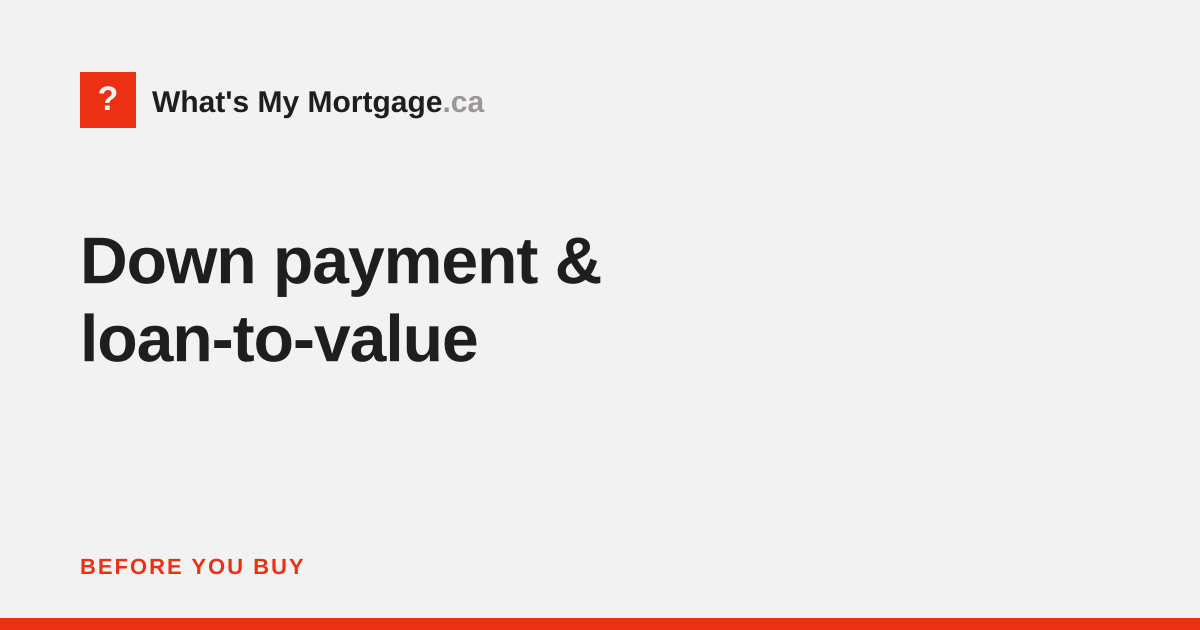
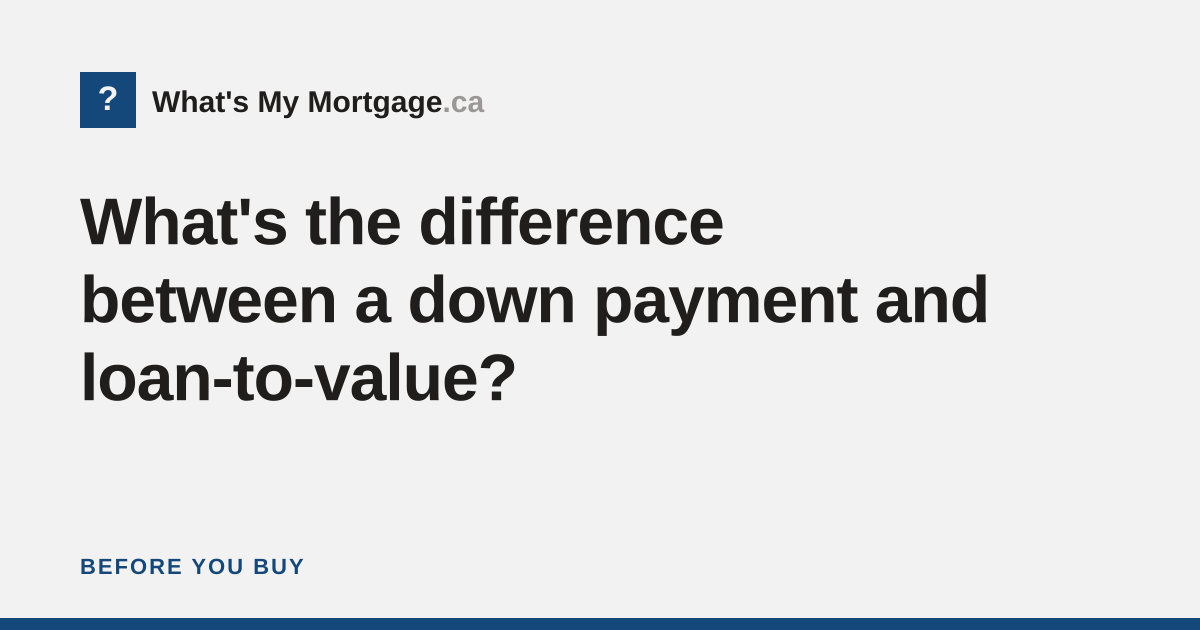
Replace the single-hue palette with a two-color trust/action system
Blue for trust, amber for action — replacing the red-orange accent used
everywhere (brand and CTA both) since the original design. Grounded in
research from this specific category rather than picked to match any
logo: financial-services color psychology consistently favors blue for
trust (the range cited runs #0A2540-#2563EB; a cited A/B test found a
23% conversion lift switching a finance CTA to deep navy over a warmer
color), Canadian bank precedent leans the same way (RBC and BMO both
anchor on blue), and the industry-specific literature is explicit that
orange/red reads as urgency rather than authority — the wrong signal for
a site whose whole pitch is "real lender math, sources published, not a
broker." Red was also a poor fit for this site specifically: it's the
color under the biggest number on a penalty or cost calculator, which
shouldn't look like an alarm.

The split is a strict two-color system, not a reskin:
  --color-primary (blue)  — trust. Logo, hero, category icons, active nav
    state, step numbers, the answer on a result card. Every place the
    site establishes who it is.
  --color-accent (amber)  — action. Only .btn-primary and its literal
    equivalents (the assistant's send button) — the one thing per page
    that actually submits or converts. Never used for brand/identity.
Selection states (segmented toggles, nav active state) went to primary,
not accent — they're "this is chosen," not "click this to convert."
[…]

diff --git a/src/assets/css/main.css b/src/assets/css/main.css
@@ -14,9 +14,9 @@
   --color-bg: #f3f2f2;
   --color-surface: #eae9e9;
   --color-text: #201e1d;
-  --color-accent: #ec3013;
-  --color-accent-2: #e15b47;
+  --color-accent: #a6600f;
   --color-divider: color-mix(in srgb, #201e1d 40%, transparent);
+  --color-danger: #b3261e;
 
   --color-neutral-100: #f8f4f4;
   --color-neutral-200: #eae7e7;
@@ -28,15 +28,30 @@
   --color-neutral-800: #444141;
   --color-neutral-900: #2d2b2b;
 
-  --color-accent-100: #fff2ef;
-  --color-accent-200: #ffe0d9;
-  --color-accent-300: #ffc4b8;
-  --color-accent-400: #ff9783;
-  --color-accent-500: #ff563c;
-  --color-accent-600: #dd2b0f;
-  --color-accent-700: #ae1800;
-  --color-accent-800: #7c1405;
-  --color-accent-900: #4d170e;
+  /* Trust/brand color — logo, icons, active states, the answer on a
+     result card. Everywhere the site establishes who it is. */
+  --color-primary: #14487a;
+  --color-primary-100: #f0f6fc;
+  --color-primary-200: #d8e8f9;
+  --color-primary-300: #b5d4f3;
+  --color-primary-400: #7cb4e9;
+  --color-primary-500: #3a8edf;
+  --color-primary-600: #14487a;
+  --color-primary-700: #0c3154;
+  --color-primary-800: #071f35;
+  --color-primary-900: #040f1a;
+
+  /* Action color — reserved for the one thing on a page that submits or
+     converts (the primary button), never for brand/trust moments. */
+  --color-accent-100: #fef7ef;
+  --color-accent-200: #fbe9d5;
+  --color-accent-300: #f8d6af;
+  --color-accent-400: #f2b773;
+  --color-accent-500: #ec932d;
+  --color-accent-600: #a6600f;
+  --color-accent-700: #7f4808;
+  --color-accent-800: #5d3506;
+  --color-accent-900: #412504;
 
   --font-heading: "Archivo", system-ui, sans-serif;
   --font-heading-weight: 800;
@@ -97,19 +112,24 @@ h4 { font-size: var(--text-21); font-weight: var(--weight-21); letter-spacing: v
 h5 { font-size: var(--text-17); font-weight: var(--weight-17); letter-spacing: var(--track-17); }
 h6 { font-size: var(--text-13); font-weight: var(--weight-13); letter-spacing: var(--track-13); text-transform: uppercase; }
 p { margin: 0 0 var(--space-3); max-width: 68ch; }
-/* Brand color is deliberate, not incidental: it lives at fixed structural
-   points — the logo, the hero, category icons, the answer on a result
-   card, primary buttons, active nav state — so the site reads as one
-   consistent brand at a glance. It does not spread to ordinary body links
-   or prose, which stay ink + underline; that's what keeps "branded" from
-   sliding into "everything is red." */
+/* Two brand colors, two jobs, never mixed:
+     --color-primary (blue)  — trust. The logo, the hero, category icons,
+       active nav state, the answer on a result card. Everywhere the site
+       establishes who it is.
+     --color-accent (amber)  — action. Only the one thing on a page that
+       submits or converts (.btn-primary and its equivalents). It never
+       appears as a brand/identity color, and primary never appears on a
+       button someone is meant to click to convert.
+   Neither spreads to ordinary body links or prose, which stay ink +
+   underline — that's what keeps "branded" from sliding into "everything
+   is colored." */
 a { color: var(--color-text); text-decoration-color: color-mix(in srgb, var(--color-text) 40%, transparent); text-underline-offset: 3px; }
 a:hover { text-decoration-color: currentColor; }
 img { display: block; max-width: 100%; }
 button { font: inherit; }
 :focus { outline: none; }
-:focus-visible { outline: 2px solid var(--color-accent); outline-offset: 2px; }
-::selection { background: color-mix(in srgb, var(--color-accent) 30%, transparent); }
+:focus-visible { outline: 2px solid var(--color-primary); outline-offset: 2px; }
+::selection { background: color-mix(in srgb, var(--color-primary) 30%, transparent); }
 /* Custom slider thumb: bigger than any browser default (28px, well past
    the 44px touch target once you count the invisible hit area browsers
    already pad range inputs with) and ink-colored rather than accent — a
@@ -135,8 +155,8 @@ input[type="range"]::-moz-range-thumb {
   width: 28px; height: 28px; border-radius: 50%; border: 3px solid var(--color-bg);
   background: var(--color-neutral-900); box-shadow: var(--shadow-sm); cursor: pointer;
 }
-input[type="range"]:focus-visible::-webkit-slider-thumb { outline: 2px solid var(--color-accent); outline-offset: 2px; }
-input[type="range"]:focus-visible::-moz-range-thumb { outline: 2px solid var(--color-accent); outline-offset: 2px; }
+input[type="range"]:focus-visible::-webkit-slider-thumb { outline: 2px solid var(--color-primary); outline-offset: 2px; }
+input[type="range"]:focus-visible::-moz-range-thumb { outline: 2px solid var(--color-primary); outline-offset: 2px; }
 
 .hr { height: 2px; border: 0; margin: var(--space-4) 0; background: var(--color-divider); }
 
@@ -165,15 +185,15 @@ input[type="range"]:focus-visible::-moz-range-thumb { outline: 2px solid var(--c
 .field > label { display: block; font-size: var(--text-13); margin-bottom: 5px; color: color-mix(in srgb, var(--color-text) 70%, transparent); }
 .input {
   width: 100%; min-height: 44px; padding: 6px 12px; font: inherit;
-  font-size: var(--text-15); color: var(--color-text); caret-color: var(--color-accent);
+  font-size: var(--text-15); color: var(--color-text); caret-color: var(--color-primary);
   background: var(--color-surface); border: 1px solid var(--color-divider); border-radius: var(--radius-md);
 }
 .input:hover { border-color: color-mix(in srgb, var(--color-text) 45%, transparent); }
-.input:focus-visible { border-color: var(--color-accent); outline-offset: 0; }
+.input:focus-visible { border-color: var(--color-primary); outline-offset: 0; }
 select.input { appearance: auto; cursor: pointer; }
 .skip-link {
   position: absolute; left: -9999px; top: 0; z-index: 1000;
-  background: var(--color-accent-600); color: #fff;
+  background: var(--color-primary-600); color: #fff;
   padding: 10px 16px; font-family: var(--font-heading); font-weight: 800; font-size: var(--text-13);
   text-decoration: none;
 }
@@ -182,9 +202,9 @@ select.input { appearance: auto; cursor: pointer; }
 .seg-opt { display: inline-flex; align-items: center; gap: 6px; padding: 12px 14px; font-size: var(--text-13); cursor: pointer; min-height: 44px; }
 .seg-opt + .seg-opt { border-left: 1px solid var(--color-divider); }
 .seg-opt input { position: absolute; opacity: 0; width: 0; height: 0; pointer-events: none; }
-.seg-opt:has(input:checked) { background: var(--color-accent-600); color: #fff; }
+.seg-opt:has(input:checked) { background: var(--color-primary-600); color: #fff; }
 .seg-opt:not(:has(input:checked)):hover { background: color-mix(in srgb, var(--color-text) 7%, transparent); }
-.seg-opt:has(input:focus-visible) { outline: 2px solid var(--color-accent); outline-offset: -2px; }
+.seg-opt:has(input:focus-visible) { outline: 2px solid var(--color-primary); outline-offset: -2px; }
 
 /* — cards — */
 .card { display: flex; flex-direction: column; gap: var(--space-2); padding: var(--space-3); border-radius: var(--radius-md); background: var(--color-surface); }
@@ -198,8 +218,8 @@ select.input { appearance: auto; cursor: pointer; }
 .nav-brand { font-family: var(--font-heading); font-weight: var(--font-heading-weight); font-size: var(--text-17); margin-right: auto; display: flex; align-items: center; gap: 8px; cursor: pointer; background: none; border: none; padding: 0; color: inherit; white-space: nowrap; text-decoration: none; }
 .nav-links { display: flex; flex-wrap: wrap; gap: var(--space-1) var(--space-4); align-items: center; }
 .nav a, .nav button.link { color: inherit; text-decoration: none; font-size: var(--text-15); font-weight: 600; background: none; border: none; cursor: pointer; font-family: var(--font-body); padding: 10px 2px; min-height: 44px; display: inline-flex; align-items: center; white-space: nowrap; border-bottom: 2px solid transparent; }
-.nav a:hover, .nav button.link:hover { color: var(--color-accent-700); }
-.nav a[aria-current='page'] { border-bottom-color: var(--color-accent); color: var(--color-accent-700); }
+.nav a:hover, .nav button.link:hover { color: var(--color-primary-700); }
+.nav a[aria-current='page'] { border-bottom-color: var(--color-primary); color: var(--color-primary-700); }
 
 .nav-dropdown { position: relative; }
 .nav-dropdown summary {
@@ -208,9 +228,9 @@ select.input { appearance: auto; cursor: pointer; }
   cursor: pointer; border-bottom: 2px solid transparent;
 }
 .nav-dropdown summary::-webkit-details-marker { display: none; }
-.nav-dropdown summary:hover { color: var(--color-accent-700); }
+.nav-dropdown summary:hover { color: var(--color-primary-700); }
 .nav-dropdown summary svg { transition: transform .15s; }
-.nav-dropdown[open] summary { color: var(--color-accent-700); border-bottom-color: var(--color-accent); }
+.nav-dropdown[open] summary { color: var(--color-primary-700); border-bottom-color: var(--color-primary); }
 .nav-dropdown[open] summary svg { transform: rotate(180deg); }
 .nav-dropdown-panel {
   position: absolute; top: calc(100% + 10px); left: 0; z-index: 30;
@@ -223,8 +243,8 @@ select.input { appearance: auto; cursor: pointer; }
   border-radius: var(--radius-sm); min-height: 44px; font-size: var(--text-15); font-weight: 600;
   color: inherit; text-decoration: none; white-space: normal;
 }
-.nav-dropdown-item:hover { background: var(--color-accent-100); color: var(--color-accent-800); }
-.nav-dropdown-icon { display: flex; flex: none; width: 32px; height: 32px; align-items: center; justify-content: center; border-radius: 50%; background: var(--color-accent-100); color: var(--color-accent-700); }
+.nav-dropdown-item:hover { background: var(--color-primary-100); color: var(--color-primary-800); }
+.nav-dropdown-icon { display: flex; flex: none; width: 32px; height: 32px; align-items: center; justify-content: center; border-radius: 50%; background: var(--color-primary-100); color: var(--color-primary-700); }
 @media (max-width: 480px) {
   .nav-dropdown-panel { left: -12px; right: -12px; min-width: 0; }
 }
@@ -242,7 +262,7 @@ select.input { appearance: auto; cursor: pointer; }
 .info-dot { display: inline-flex; width: 17px; height: 17px; border: 1px solid var(--color-divider); border-radius: 50%; align-items: center; justify-content: center; font-size: 10px; font-style: italic; color: var(--color-neutral-700); vertical-align: middle; }
 
 /* — nav brand mark — */
-.brand-mark { width: 30px; height: 30px; background: var(--color-accent-600); color: #fff; display: flex; align-items: center; justify-content: center; border-radius: var(--radius-sm); flex: none; }
+.brand-mark { width: 30px; height: 30px; background: var(--color-primary-600); color: #fff; display: flex; align-items: center; justify-content: center; border-radius: var(--radius-sm); flex: none; }
 
 /* — clickable card — */
 .click-card { cursor: pointer; transition: transform .15s, box-shadow .15s; text-align: left; border: none; font: inherit; color: inherit; width: 100%; }
@@ -251,15 +271,15 @@ select.input { appearance: auto; cursor: pointer; }
 /* — home hero — */
 .hero-band {
   background:
-    radial-gradient(ellipse 900px 500px at 85% -10%, var(--color-accent-200) 0%, transparent 60%),
-    linear-gradient(180deg, var(--color-accent-100) 0%, var(--color-bg) 100%);
+    radial-gradient(ellipse 900px 500px at 85% -10%, var(--color-primary-200) 0%, transparent 60%),
+    linear-gradient(180deg, var(--color-primary-100) 0%, var(--color-bg) 100%);
   border-bottom: 1px solid var(--color-divider);
 }
 .hero { padding: var(--space-12) 0 var(--space-8); text-align: left; }
 .hero-kicker {
   display: inline-flex; align-items: center; gap: 7px;
   font-family: var(--font-heading); font-weight: 800; font-size: var(--text-13);
-  letter-spacing: .06em; text-transform: uppercase; color: var(--color-accent-700);
+  letter-spacing: .06em; text-transform: uppercase; color: var(--color-primary-700);
   margin-bottom: var(--space-4);
 }
 .hero h1 { font-size: clamp(32px, 5.6vw, var(--text-56)); letter-spacing: var(--track-56); margin: 0 0 var(--space-3); }
@@ -267,9 +287,9 @@ select.input { appearance: auto; cursor: pointer; }
 .hero-badges { display: flex; flex-wrap: wrap; gap: var(--space-2) var(--space-4); margin-top: var(--space-6); }
 .hero-badge {
   display: inline-flex; align-items: center; gap: 6px;
-  font-size: var(--text-13); font-weight: 700; color: var(--color-accent-800);
+  font-size: var(--text-13); font-weight: 700; color: var(--color-primary-800);
   background: color-mix(in srgb, var(--color-bg) 55%, transparent);
-  border: 1px solid var(--color-accent-300); border-radius: 999px;
+  border: 1px solid var(--color-primary-300); border-radius: 999px;
   padding: 6px 12px;
 }
 .hero-badge svg { flex: none; }
@@ -278,13 +298,13 @@ select.input { appearance: auto; cursor: pointer; }
   display: inline-flex; align-items: center; gap: 6px; margin-top: var(--space-6);
   background: none; border: none; cursor: pointer; padding: 4px 0;
   font-family: var(--font-heading); font-weight: 800; font-size: var(--text-13);
-  color: var(--color-accent-700); text-decoration: underline; text-underline-offset: 3px;
+  color: var(--color-primary-700); text-decoration: underline; text-underline-offset: 3px;
 }
 .qz-trigger svg { transition: transform .15s; }
 .qz-trigger[aria-expanded="true"] svg { transform: rotate(180deg); }
 .qz-panel {
   margin-top: var(--space-4); padding: var(--space-6); max-width: 480px;
-  background: var(--color-bg); border: 1px solid var(--color-accent-300);
+  background: var(--color-bg); border: 1px solid var(--color-primary-300);
   border-radius: var(--radius-lg); box-shadow: var(--shadow-md);
 }
 .qz-question { font-family: var(--font-heading); font-weight: 800; font-size: var(--text-17); margin: 0 0 var(--space-3); }
@@ -300,22 +320,22 @@ select.input { appearance: auto; cursor: pointer; }
   background: var(--color-bg); box-shadow: var(--shadow-sm);
   transition: box-shadow .15s, transform .15s, border-color .15s;
 }
-.journey-card:has(.journey-link:hover) { box-shadow: var(--shadow-md); border-color: var(--color-accent-300); transform: translateY(-2px); }
+.journey-card:has(.journey-link:hover) { box-shadow: var(--shadow-md); border-color: var(--color-primary-300); transform: translateY(-2px); }
 .journey-link { display: block; text-decoration: none; color: inherit; flex: 1; }
-.journey-link:hover .journey-title { text-decoration: underline; text-decoration-color: var(--color-accent); }
+.journey-link:hover .journey-title { text-decoration: underline; text-decoration-color: var(--color-primary); }
 .journey-icon {
   display: flex; align-items: center; justify-content: center; width: 44px; height: 44px;
-  border-radius: 50%; background: var(--color-accent-100); color: var(--color-accent-700);
+  border-radius: 50%; background: var(--color-primary-100); color: var(--color-primary-700);
   margin-bottom: var(--space-4);
 }
 .journey-title { font-family: var(--font-heading); font-weight: var(--weight-21); font-size: var(--text-21); letter-spacing: var(--track-21); margin-bottom: 6px; }
 .journey-desc { font-size: var(--text-15); opacity: .7; margin: 0; }
-.journey-read { display: inline-flex; align-items: center; min-height: 44px; margin-top: var(--space-3); font-size: var(--text-13); font-weight: 700; color: var(--color-accent-700); }
+.journey-read { display: inline-flex; align-items: center; min-height: 44px; margin-top: var(--space-3); font-size: var(--text-13); font-weight: 700; color: var(--color-primary-700); }
 
 /* — how it works — */
 .how-it-works { display: flex; flex-wrap: wrap; gap: var(--space-6); }
 .how-step { flex: 1 1 220px; display: flex; gap: var(--space-3); align-items: flex-start; }
-.how-n { flex: none; width: 28px; height: 28px; border-radius: 50%; background: var(--color-accent-600); color: #fff; display: flex; align-items: center; justify-content: center; font-family: var(--font-heading); font-weight: 800; font-size: var(--text-13); }
+.how-n { flex: none; width: 28px; height: 28px; border-radius: 50%; background: var(--color-primary-600); color: #fff; display: flex; align-items: center; justify-content: center; font-family: var(--font-heading); font-weight: 800; font-size: var(--text-13); }
 .how-text { font-size: var(--text-15); line-height: 1.5; padding-top: 3px; }
 
 /* — result card — */
@@ -346,7 +366,7 @@ select.input { appearance: auto; cursor: pointer; }
    answer-right (both above the fold) via the row layout + order swap. */
 .calc-page { padding-top: var(--space-6); padding-bottom: var(--space-12); }
 .calc-h1 { display: flex; align-items: center; gap: var(--space-3); font-size: var(--text-28); letter-spacing: var(--track-28); margin: var(--space-3) 0 var(--space-6); }
-.calc-h1-icon { display: flex; flex: none; align-items: center; justify-content: center; width: 44px; height: 44px; border-radius: 50%; background: var(--color-accent-100); color: var(--color-accent-700); }
+.calc-h1-icon { display: flex; flex: none; align-items: center; justify-content: center; width: 44px; height: 44px; border-radius: 50%; background: var(--color-primary-100); color: var(--color-primary-700); }
 .calc-layout { display: flex; flex-direction: column; gap: var(--space-6); }
 .calc-answer-zone { order: 1; }
 .calc-input-zone { order: 2; padding: var(--space-6); }
@@ -382,7 +402,7 @@ select.input { appearance: auto; cursor: pointer; }
 
 /* — jargon page — */
 .jargon-item { padding: var(--space-3) 0; border-bottom: 1px solid var(--color-divider); scroll-margin-top: 16px; }
-.jargon-item:target { background: var(--color-accent-100); outline: 2px solid var(--color-accent); outline-offset: 2px; padding-left: var(--space-2); }
+.jargon-item:target { background: var(--color-primary-100); outline: 2px solid var(--color-primary); outline-offset: 2px; padding-left: var(--space-2); }
 .jargon-term { font-family: var(--font-heading); font-weight: 800; font-size: var(--text-17); margin-bottom: 3px; }
 .jargon-def { font-size: var(--text-15); line-height: 1.5; opacity: .75; margin: 0; }
 
@@ -413,11 +433,11 @@ select.input { appearance: auto; cursor: pointer; }
 .assistant-widget { position: fixed; right: var(--space-4); bottom: var(--space-4); z-index: 100; }
 .assistant-fab {
   width: 56px; height: 56px; border-radius: 50%; border: none; cursor: pointer;
-  background: var(--color-accent-600); color: #fff; box-shadow: var(--shadow-lg);
+  background: var(--color-primary-600); color: #fff; box-shadow: var(--shadow-lg);
   display: flex; align-items: center; justify-content: center;
   transition: background .15s, transform .15s;
 }
-.assistant-fab:hover { background: var(--color-accent-700); transform: scale(1.05); }
+.assistant-fab:hover { background: var(--color-primary-700); transform: scale(1.05); }
 .assistant-fab[aria-expanded="true"] { background: var(--color-neutral-900); }
 
 .assistant-panel {
@@ -431,7 +451,7 @@ select.input { appearance: auto; cursor: pointer; }
 .assistant-header {
   display: flex; align-items: center; justify-content: space-between; gap: var(--space-2);
   padding: var(--space-3) var(--space-4); border-bottom: 1px solid var(--color-divider);
-  background: var(--color-accent-600); color: #fff; flex: none;
+  background: var(--color-primary-600); color: #fff; flex: none;
 }
 .assistant-header-title { display: flex; align-items: center; gap: 8px; font-family: var(--font-heading); font-weight: 800; font-size: var(--text-15); }
 .assistant-icon-btn {
@@ -449,7 +469,7 @@ select.input { appearance: auto; cursor: pointer; }
 .assistant-thread { flex: 1; overflow-y: auto; display: flex; flex-direction: column; gap: var(--space-2); min-height: 120px; }
 .assistant-msg { max-width: 88%; padding: 8px 12px; border-radius: var(--radius-md); font-size: var(--text-13); line-height: 1.5; }
 .assistant-msg-assistant { align-self: flex-start; background: var(--color-surface); }
-.assistant-msg-user { align-self: flex-end; background: var(--color-accent-100); color: var(--color-accent-900); }
+.assistant-msg-user { align-self: flex-end; background: var(--color-primary-100); color: var(--color-primary-900); }
 .assistant-thinking { opacity: .5; }
 .assistant-suggestion { align-self: flex-start; margin-top: 2px; }
 
@@ -459,12 +479,12 @@ select.input { appearance: auto; cursor: pointer; }
 .assistant-send:hover { background: var(--color-accent-700); }
 .assistant-mic-btn {
   display: inline-flex; align-items: center; justify-content: center; width: 40px; height: 40px; flex: none;
-  border-radius: 50%; border: 1px solid var(--color-divider); background: var(--color-bg); color: var(--color-accent-600); cursor: pointer;
+  border-radius: 50%; border: 1px solid var(--color-divider); background: var(--color-bg); color: var(--color-primary-600); cursor: pointer;
 }
-.assistant-mic-btn.is-listening { background: var(--color-accent-600); color: #fff; animation: assistant-pulse 1.2s ease-in-out infinite; }
+.assistant-mic-btn.is-listening { background: var(--color-primary-600); color: #fff; animation: assistant-pulse 1.2s ease-in-out infinite; }
 .assistant-mic-btn:disabled { opacity: .4; cursor: not-allowed; }
-@keyframes assistant-pulse { 0%, 100% { box-shadow: 0 0 0 0 color-mix(in srgb, var(--color-accent-600) 40%, transparent); } 50% { box-shadow: 0 0 0 8px transparent; } }
-.assistant-switch { align-self: flex-start; background: none; border: none; padding: 0; font-size: var(--text-13); font-weight: 700; color: var(--color-accent-700); text-decoration: underline; text-underline-offset: 3px; cursor: pointer; flex: none; }
+@keyframes assistant-pulse { 0%, 100% { box-shadow: 0 0 0 0 color-mix(in srgb, var(--color-primary-600) 40%, transparent); } 50% { box-shadow: 0 0 0 8px transparent; } }
+.assistant-switch { align-self: flex-start; background: none; border: none; padding: 0; font-size: var(--text-13); font-weight: 700; color: var(--color-primary-700); text-decoration: underline; text-underline-offset: 3px; cursor: pointer; flex: none; }
 
 @media (max-width: 480px) {
   .assistant-widget { right: var(--space-3); bottom: var(--space-3); }

diff --git a/src/assets/js/lib/contactCard.js b/src/assets/js/lib/contactCard.js
@@ -60,7 +60,7 @@ export function renderContactCard(opts) {
       <div aria-hidden="true" style="position:absolute;left:-9999px;width:1px;height:1px;overflow:hidden">
         <label for="${id}-company">Leave this field blank</label><input id="${id}-company" type="text" tabindex="-1" autocomplete="off" data-contact-field="company"/>
       </div>
-      ${error ? `<p style="font-size:var(--text-13);color:var(--color-accent-700);margin:0" role="alert">${esc(error)}</p>` : ''}
+      ${error ? `<p style="font-size:var(--text-13);color:var(--color-danger);margin:0" role="alert">${esc(error)}</p>` : ''}
       <button type="button" class="btn btn-primary btn-block" data-action="contactSubmit" ${disabled} style="justify-content:center;text-align:center">${esc(buttonLabel)}</button>
       <p class="trust-note">Optional. Free either way. Nothing beyond this submission is stored, it goes to one licensed agent — not a list — and every rule this site uses is <a href="/sources/">published</a>.</p>
     </div>`;

diff --git a/src/assets/js/assistant.js b/src/assets/js/assistant.js
@@ -47,7 +47,12 @@ export function initAssistant() {
   toggle.addEventListener('click', () => (panel.hidden ? open() : close()));
   closeBtn.addEventListener('click', close);
   document.addEventListener('keydown', (e) => { if (e.key === 'Escape' && !panel.hidden) close(); });
-  document.addEventListener('click', (e) => { if (!panel.hidden && !widget.contains(e.target)) close(); });
+  // composedPath(), not e.target: a click on a mode/option button replaces
+  // that button's own subtree via innerHTML before this bubbles up here,
+  // so e.target can already be detached from the document — widget.contains
+  // would then wrongly say "outside" and close the panel it was opened by.
+  // composedPath() was captured at dispatch time, before any of that.
+  document.addEventListener('click', (e) => { if (!panel.hidden && !e.composedPath().includes(widget)) close(); });
 
   function renderModePicker() {
     body.innerHTML = `

diff --git a/src/assets/js/lib/resultCard.js b/src/assets/js/lib/resultCard.js
@@ -10,10 +10,11 @@ function esc(s) {
 }
 
 export function renderResultMetrics(result) {
-  // The header is always the brand color — this is the one number someone
-  // came for, and it should look like it belongs to this site. A bad-news
-  // result still reads through the wording, not a different color.
-  const headerBg = 'var(--color-accent-600)';
+  // The header is always the trust color (primary), never the action color
+  // (accent) — this is the one number someone came for, and it should read
+  // as this site's own authority on it, not as a thing to click. A
+  // bad-news result still reads through the wording, not a different color.
+  const headerBg = 'var(--color-primary-600)';
   const notes = result.notes || [];
   const tiles = result.tiles || [];
   const ledgerGroups = result.ledgerGroups || [];

diff --git a/src/assets/js/nav.js b/src/assets/js/nav.js
@@ -6,7 +6,7 @@ export function initNavDropdown(root) {
   if (!dropdown) return;
 
   document.addEventListener('click', (e) => {
-    if (dropdown.open && !dropdown.contains(e.target)) dropdown.open = false;
+    if (dropdown.open && !e.composedPath().includes(dropdown)) dropdown.open = false;
   });
   document.addEventListener('keydown', (e) => {
     if (e.key === 'Escape' && dropdown.open) {

diff --git a/scripts/build-og-images.js b/scripts/build-og-images.js
@@ -21,7 +21,7 @@ const OUT_DIR = path.join(__dirname, '../src/assets/og');
 
 const BG = '#f3f2f2';
 const INK = '#201e1d';
-const ACCENT = '#ec3013';
+const ACCENT = '#14487a';
 const FONT = 'Liberation Sans, Arial, Helvetica, sans-serif';
 
 function esc(s) {

diff --git a/src/_data/site.js b/src/_data/site.js
@@ -4,5 +4,5 @@ export default {
   url: 'https://whatsmymortgage.ca',
   description: 'Free mortgage calculators for Ontario, worked out with the same math a lender uses.',
   personaName: 'Cam',
-  themeColor: '#ec3013'
+  themeColor: '#14487a'
 };
